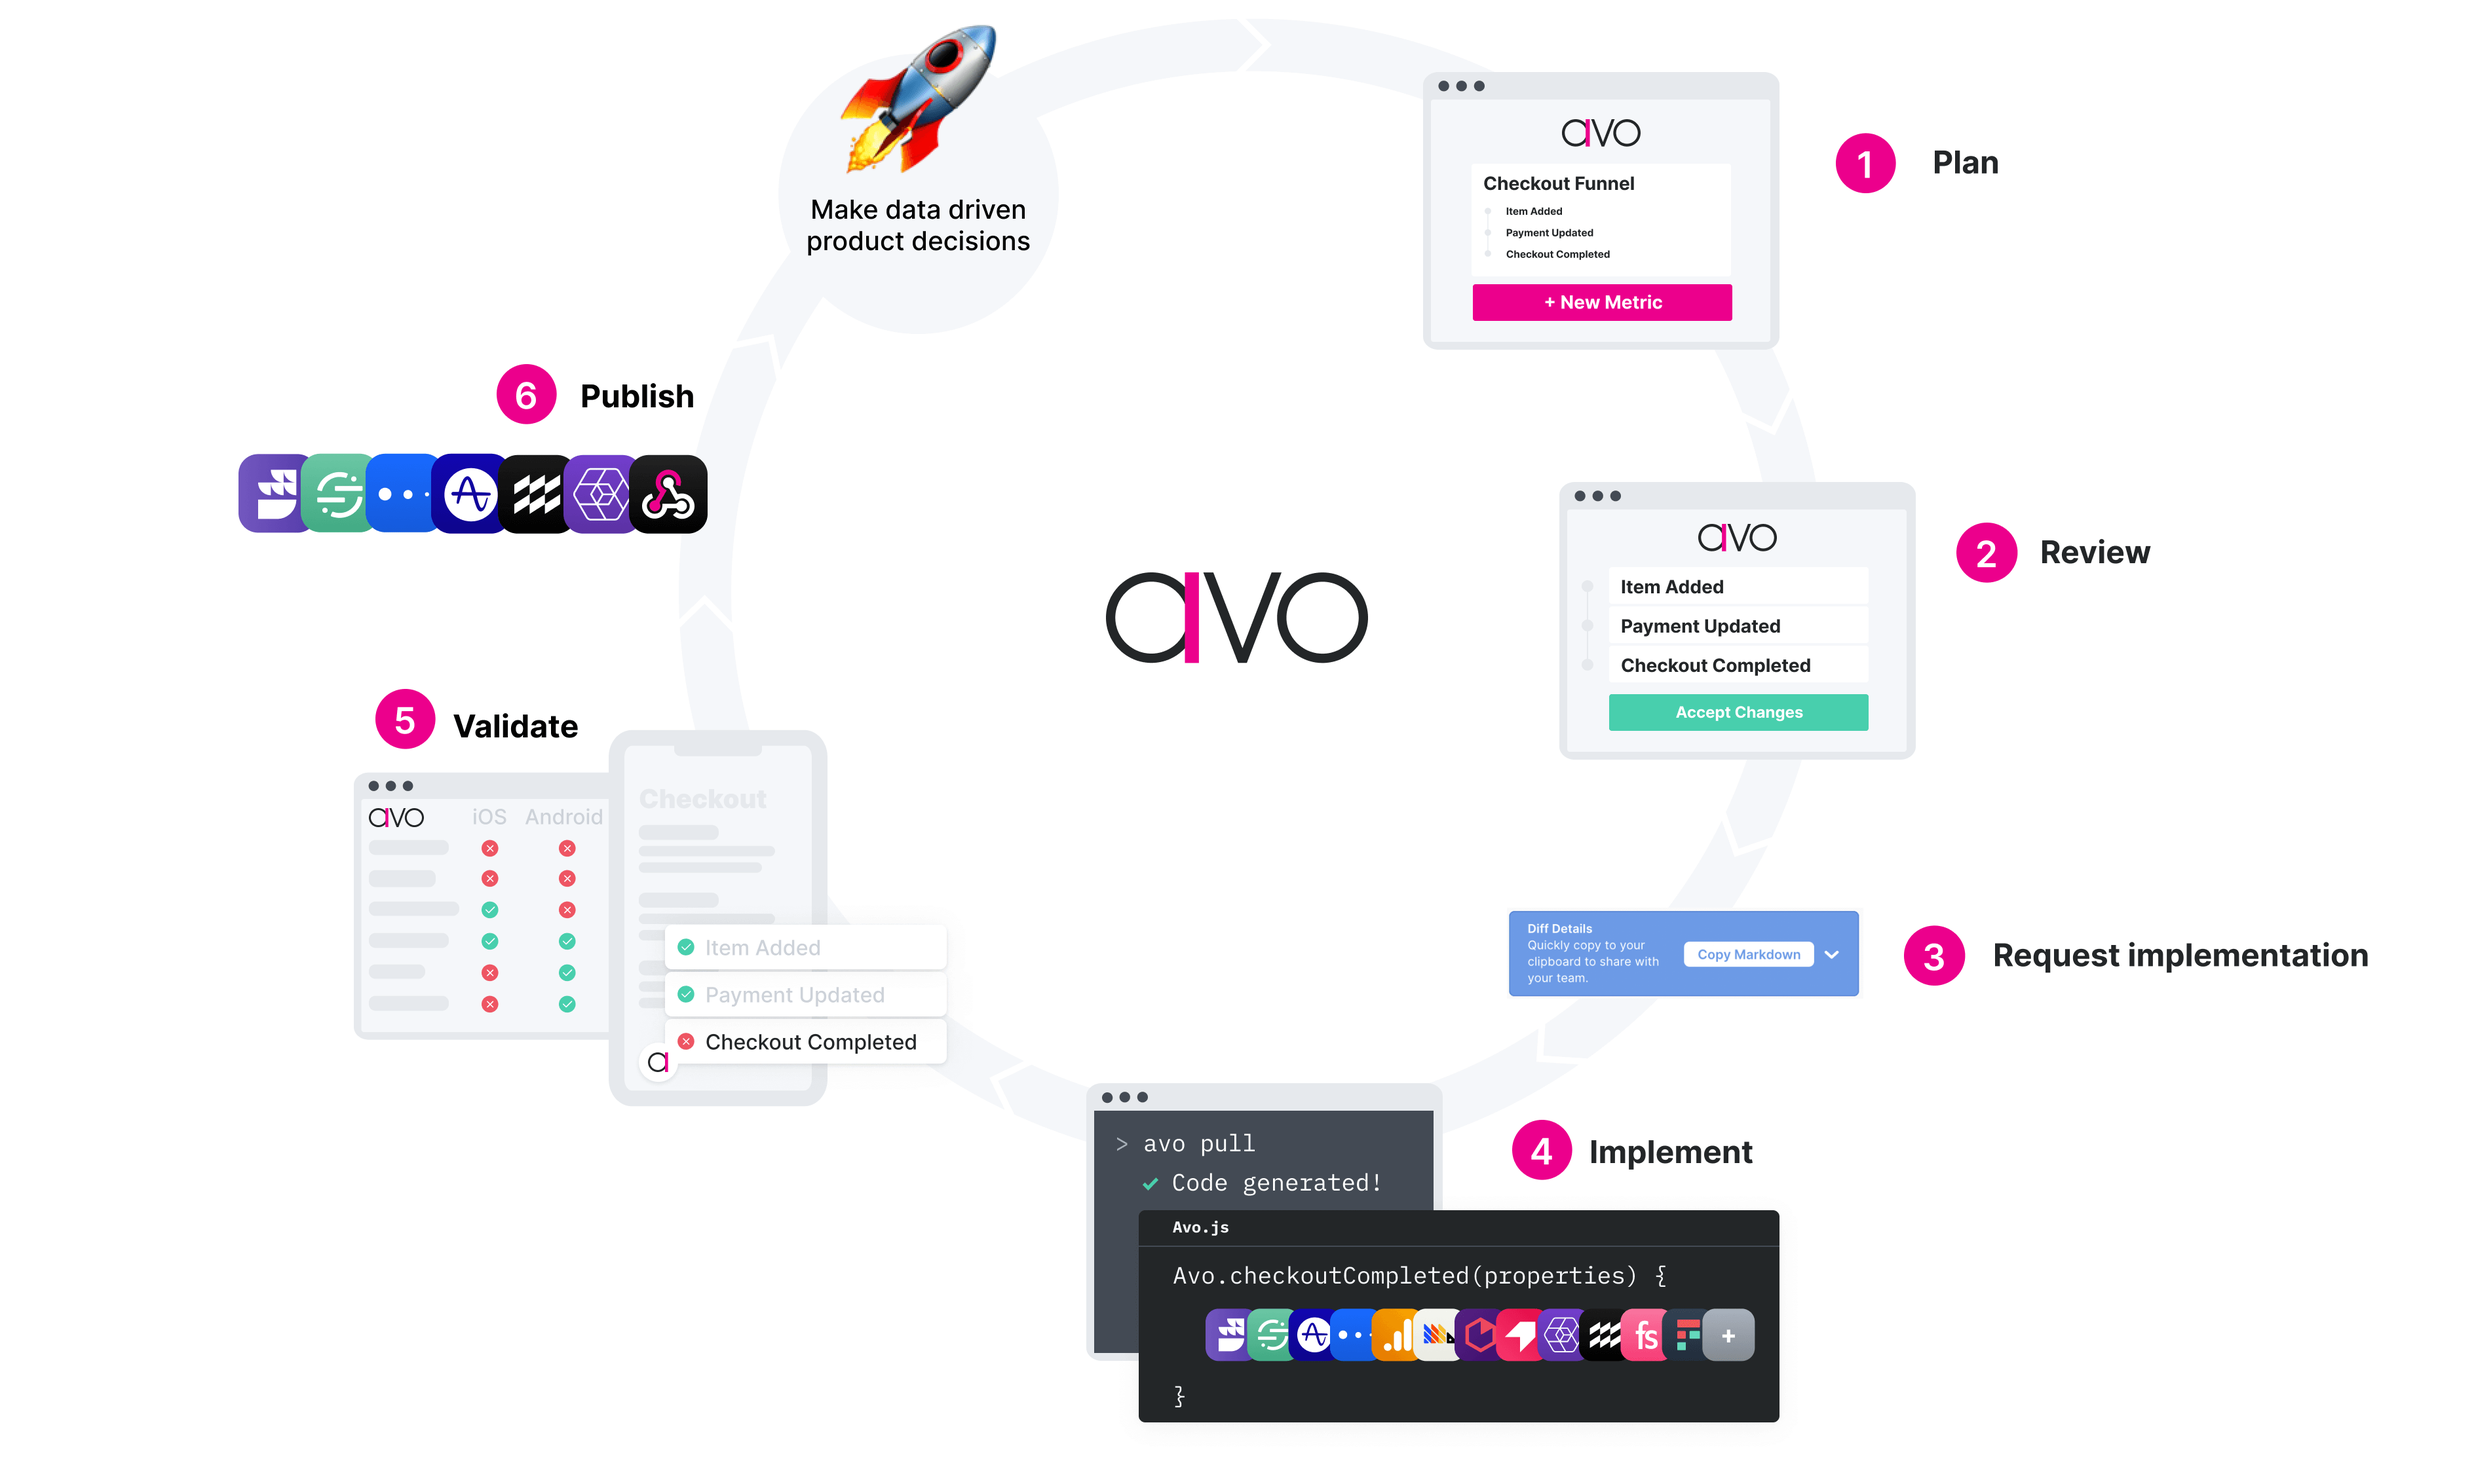
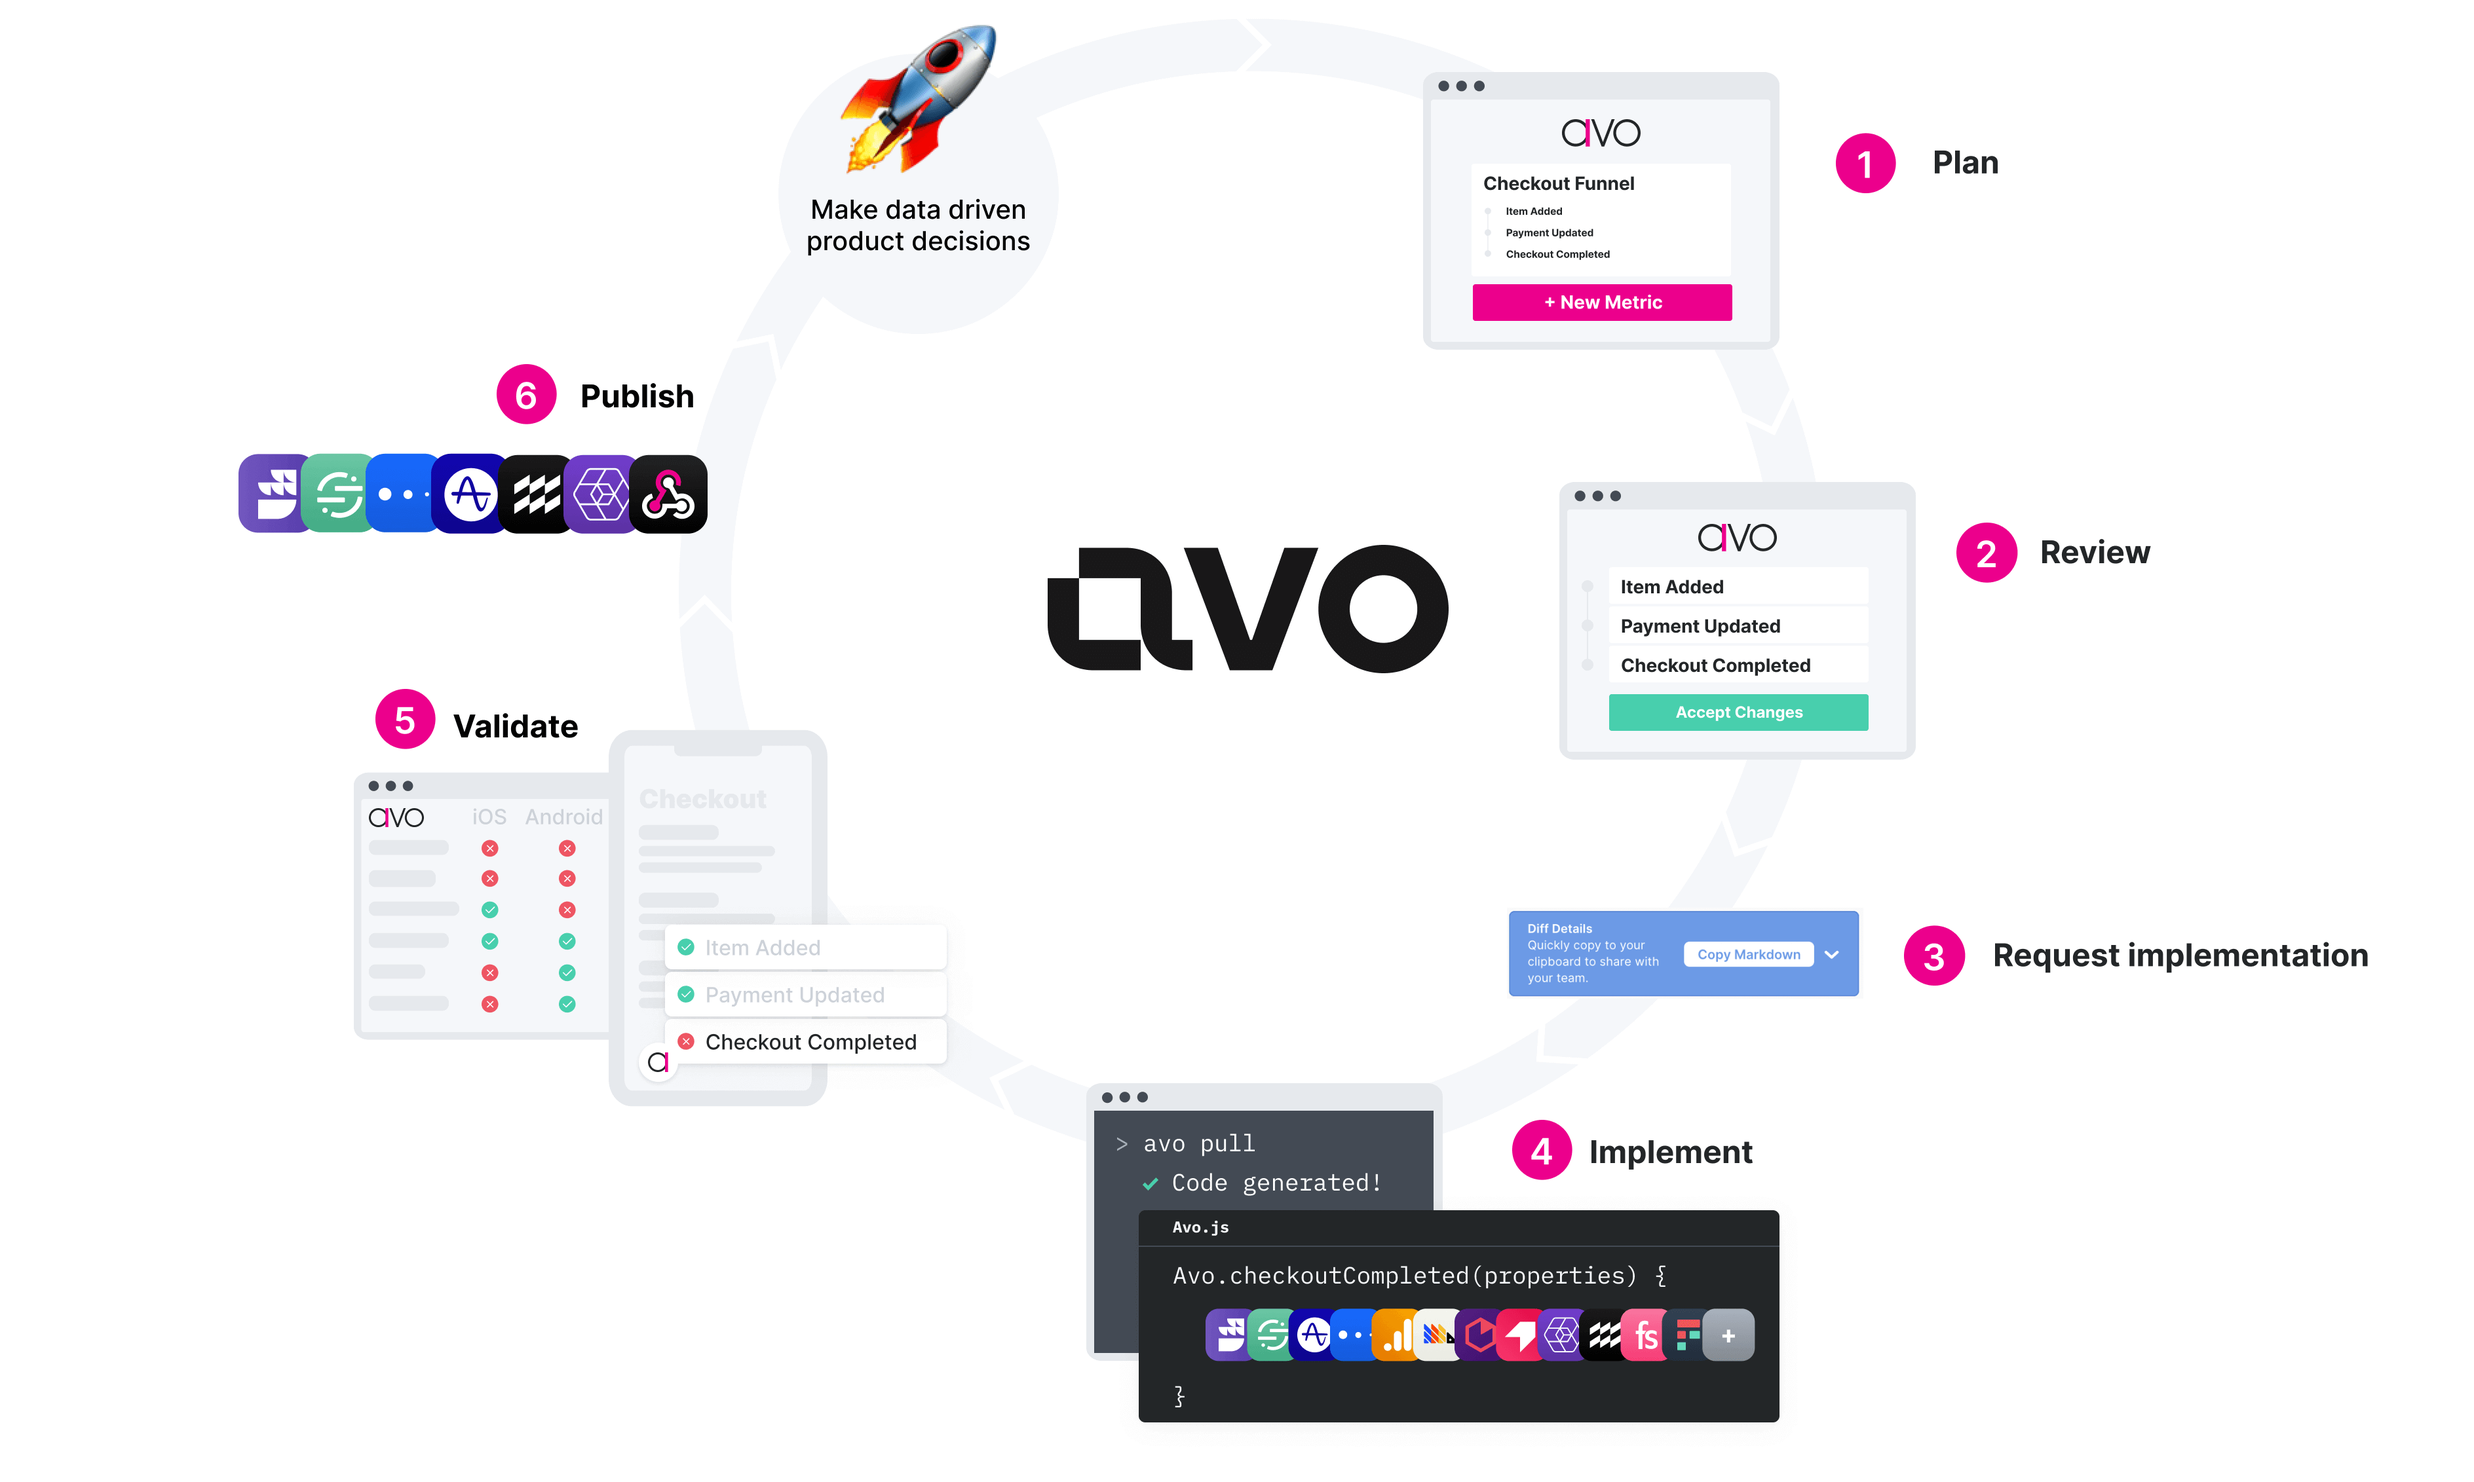
new-brand

Changed region(s): [[0.4062, 0.3712, 0.5938, 0.464]]

diff --git a/theme.config.tsx b/theme.config.tsx
@@ -7,84 +7,26 @@ import SignIn from './components/SignIn';
 
 interface LogoProps {
   width: number;
-  height: number;
 }
 
-const Logo: FunctionComponent<LogoProps> = ({ width, height }) => {
+const Logo: FunctionComponent<LogoProps> = ({ width }) => {
   return (
     <svg
-      width={width}
-      height={height}
-      viewBox="0 0 160 56"
-      fill="none"
       xmlns="http://www.w3.org/2000/svg"
+      viewBox="0 0 844 270"
+      width={width}
+      fill="none"
     >
-      <mask
-        id="mask0"
-        mask-type="alpha"
-        maskUnits="userSpaceOnUse"
-        x="104"
-        y="0"
-        width="56"
-        height="56"
-      >
-        <path
-          fillRule="evenodd"
-          clipRule="evenodd"
-          d="M104.478 0.0522461H160V55.7265H104.478V0.0522461Z"
-          fill="currentColor"
-        />
-      </mask>
-      <g mask="url(#mask0)">
-        <path
-          fillRule="evenodd"
-          clipRule="evenodd"
-          d="M132.239 5.78042C120.082 5.78042 110.19 15.6991 110.19 27.8892C110.19 40.08 120.082 49.9988 132.239 49.9988C144.397 49.9988 154.288 40.08 154.288 27.8892C154.288 15.6991 144.397 5.78042 132.239 5.78042M132.239 55.7269C116.932 55.7269 104.478 43.2388 104.478 27.8892C104.478 12.5404 116.932 0.0522461 132.239 0.0522461C147.547 0.0522461 160 12.5404 160 27.8892C160 43.2388 147.547 55.7269 132.239 55.7269"
-          fill="currentColor"
-        />
-      </g>
       <path
-        fillRule="evenodd"
-        clipRule="evenodd"
-        d="M107.199 0.0371094H101.102L83.343 46.6318L65.5451 0.0371094H59.4097L80.675 55.674H83.343H86.011L107.199 0.0371094Z"
-        fill="currentColor"
+        fill="#191719"
+        d="M97 264h99v-64H66V70H0v97c0 57 40 97 97 97Zm196 0h12v-64h-43v-97c0-57-40-97-97-97H66v64h130v97c0 57 40 97 97 97ZM383 264h90L570 6h-72l-68 194h-4L358 6h-72l97 258ZM707 206a71 71 0 0 1 0-142 71 71 0 0 1 0 142Zm0 64c75 0 137-61 137-135S782 0 707 0 570 61 570 135s62 135 137 135Z"
       />
-      <path
-        fillRule="evenodd"
-        clipRule="evenodd"
-        d="M27.7604 5.72833C15.6035 5.72833 5.71172 15.6463 5.71172 27.8371C5.71172 40.028 15.6035 49.9467 27.7604 49.9467C39.9188 49.9467 49.8098 40.028 49.8098 27.8371C49.8098 15.6463 39.9188 5.72833 27.7604 5.72833M27.7605 55.674C12.4534 55.674 0 43.1866 0 27.8371C0 12.4875 12.4534 0.00012207 27.7605 0.00012207C43.0691 0.00012207 55.5225 12.4875 55.5225 27.8371C55.5225 43.1866 43.0691 55.674 27.7605 55.674"
-        fill="currentColor"
-      />
-      <mask
-        id="mask1"
-        mask-type="alpha"
-        maskUnits="userSpaceOnUse"
-        x="0"
-        y="0"
-        width="160"
-        height="56"
-      >
-        <path
-          fillRule="evenodd"
-          clipRule="evenodd"
-          d="M0 55.7265H160V0H0V55.7265Z"
-          fill="currentColor"
-        />
-      </mask>
-      <g mask="url(#mask1)">
-        <path
-          fillRule="evenodd"
-          clipRule="evenodd"
-          d="M48.1753 55.7265H56.7438V0H48.1753V55.7265Z"
-          fill="#EC008C"
-        />
-      </g>
     </svg>
   );
 };
 
 const config: DocsThemeConfig = {
-  logo: <Logo width={60} height={21} />,
+  logo: <Logo width={60} />,
   logoLink: 'https://www.avo.app/',
   useNextSeoProps: () => ({
     titleTemplate: '%s - Avo Docs',

diff --git a/components/SignIn.module.scss b/components/SignIn.module.scss
@@ -13,11 +13,11 @@
 .signUp {
   border-radius: 8px;
   padding: 7px 20px;
-  background-color: #EC008C;
+  background-color: #FF0EB4;
   color: white;
 }
 
 .signIn {
   padding: 7px 20px;
-  color: #EC008C;
+  color: #FF0EB4;
 }
